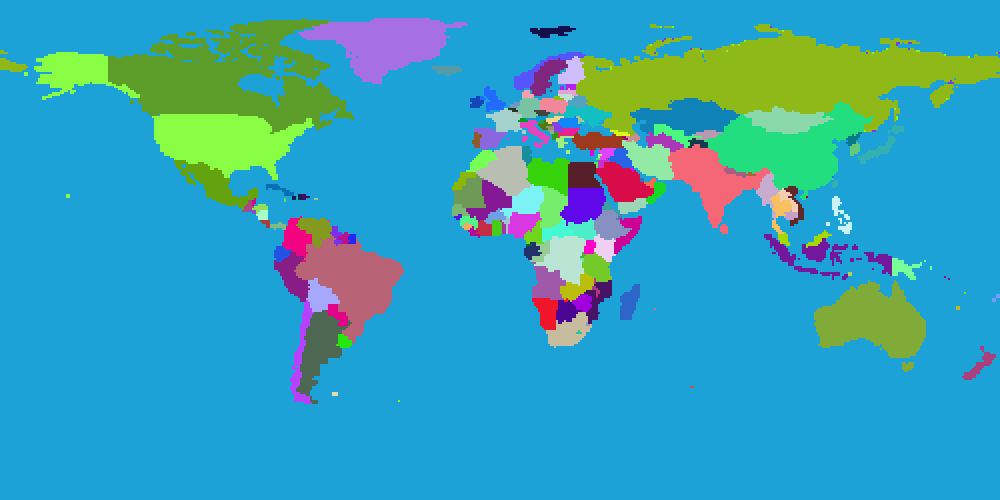
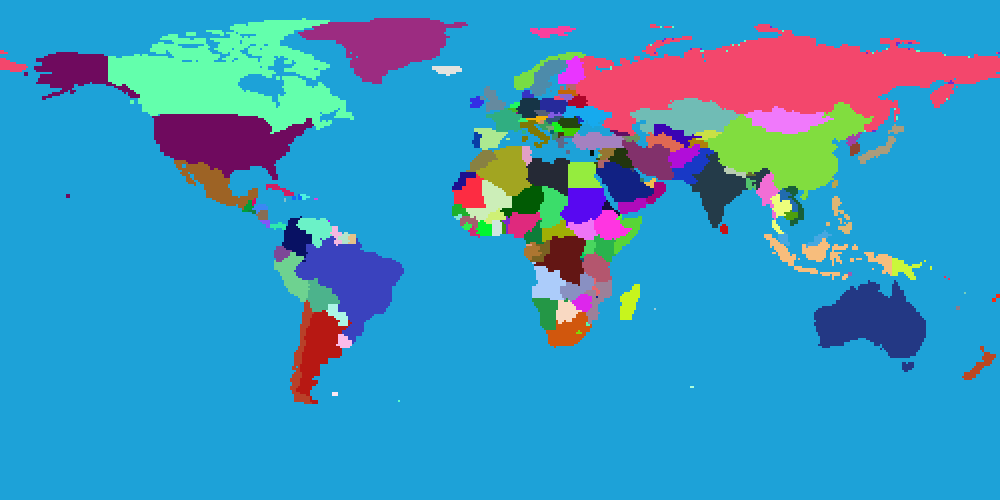
update

diff --git a/pixel_map_gen.py b/pixel_map_gen.py
@@ -6,8 +6,7 @@ import utils
 from utils import constants
 from filter import filter as fl
 
-from pixel_map_gen_old import save_map_old
-
+from past_tries.pixel_map_gen_old import save_map_old
 
 
 
@@ -86,17 +85,79 @@ def gen_map(json_path: str, pixel_size: int, width: int = 1000) -> tuple[dict[st
 def create_img(world_map_matrix: list[list[Pixel]], pixel_size: int, width: int, height: int, country_color_code: dict[str, tuple[int]]) -> tuple[Image, list[list[Pixel]]]:
     image = Image.new("RGB", (width, height))
     image1 = ImageDraw.Draw(image)
-    IN_conquered = ["PK", "BD", "AF", "LK"]
-    JP_conquered = ["KP", "KR", "TW"]
+
+    # TODO: Delete the following dict
+    # conquered = {
+    #     "PK" : "IN",
+    #     "BD" : "IN",
+    #     "AF" : "IN",
+    #     "LK" : "IN",
+        
+    #     "KP" : "JP",
+    #     "KR" : "JP",
+    #     "TW" : "JP",
+    #     "VN" : "JP",
+    #     "LA" : "JP",
+    #     "KH" : "JP",
+    #     "MM" : "JP",
+    #     "MY" : "JP",
+    #     "ID" : "JP",
+    #     "PH" : "JP",
+    #     "PG" : "JP",
+    #     "TL" : "JP",
+    #     "AU" : "JP",
+    #     "NZ" : "JP",
+    #     "HK" : "JP",
+    #     "MO" : "JP",
+
+    #     "AM" : "RU",
+    #     "LT" : "RU",
+    #     "LV" : "RU",
+    #     "TJ" : "RU",
+    #     "TM" : "RU",
+    #     "KZ" : "RU",
+    #     "AZ" : "RU",
+    #     "EE" : "RU",
+    #     "GE" : "RU",
+    #     "KG" : "RU",
+    #     "UZ" : "RU",
+
+    #     "BY" : "UA",
+    #     "MD" : "UA",
+    #     "PL" : "UA",
+
+    #     "GT" : "MX",
+    #     "BZ" : "MX",
+    #     "SV" : "MX",
+    #     "NI" : "MX",
+    #     "CR" : "MX",
+    #     "CU" : "MX",
+    #     "HN" : "MX",
+
+    #     "PA" : "CO",
+    #     "VE" : "CO",
+    #     "EC" : "CO",
+
+    #     "BO" : "PE",
+    #     "CL" : "PE",
+
+    #     "UY" : "BR",
+
+    #     "PY" : "BR",
+    #     "AR" : "BR",
+
+    #     "EG" : "GB",
+    #     "NG" : "GB",
+    #     "SD" : "GB",
+    #     "ZA" : "GB"
+    # }
 
     for row in range(len(world_map_matrix)):
         for col in range(len(world_map_matrix[row])):
             pix = world_map_matrix[row][col]
             color = pix.color
-            if pix.country in IN_conquered:
-                color = country_color_code["IN"]
-            elif pix.country in JP_conquered:
-                color = country_color_code["JP"]
+            # if pix.country in conquered:
+            #     color = country_color_code[conquered[pix.country]]
             # changed to smaller grid
             # shape = [(pix.x, pix.y), (pix.x + pixel_size, pix.y + pixel_size)]
             # image1.rectangle(shape, fill = pix.color)
@@ -155,7 +216,7 @@ if __name__ == '__main__':
 
     world_map_data = save_map("assets/maps_2.json", constants.PIXEL_WIDTH.value, "map")
     country_abbreviation_dict, country_points, country_color_code, world_image, world_map_matrix = world_map_data
-    world_image.show()
+    # world_image.show()
     # dfs(0, 0, "", world_matrix, set())
     
     # im2, mat2 = create_img(world_matrix, constants.PIXEL_WIDTH.value, 1000, 500)
